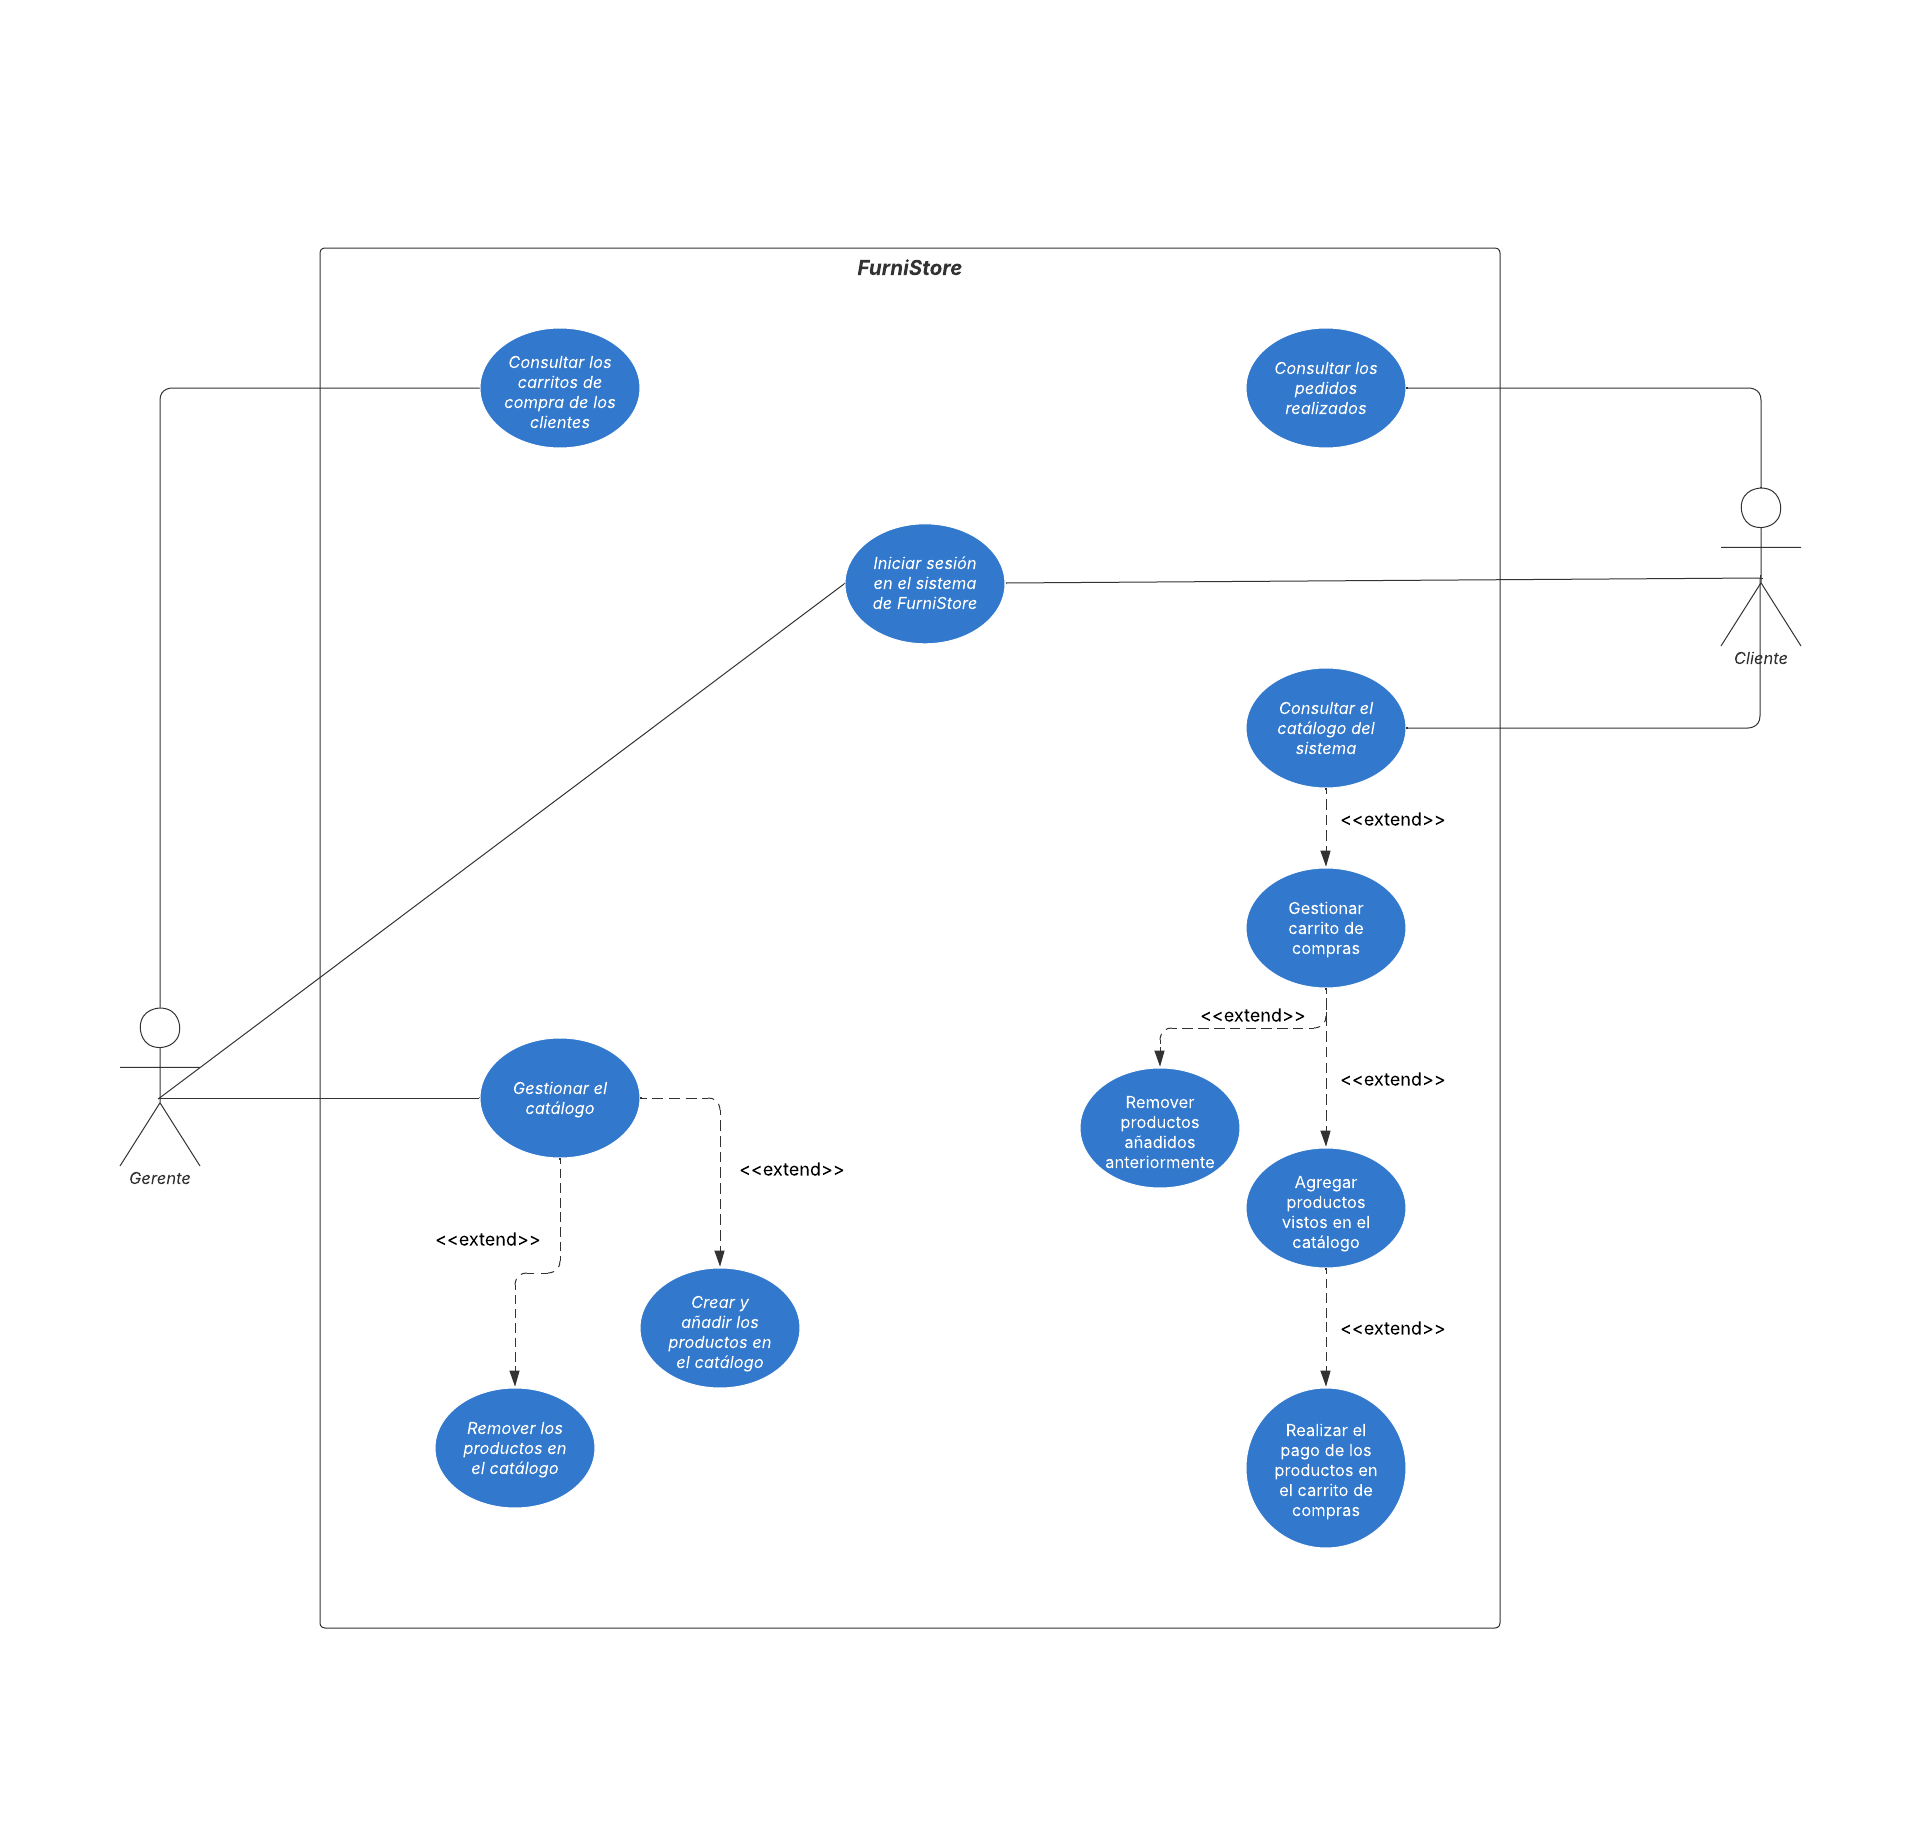
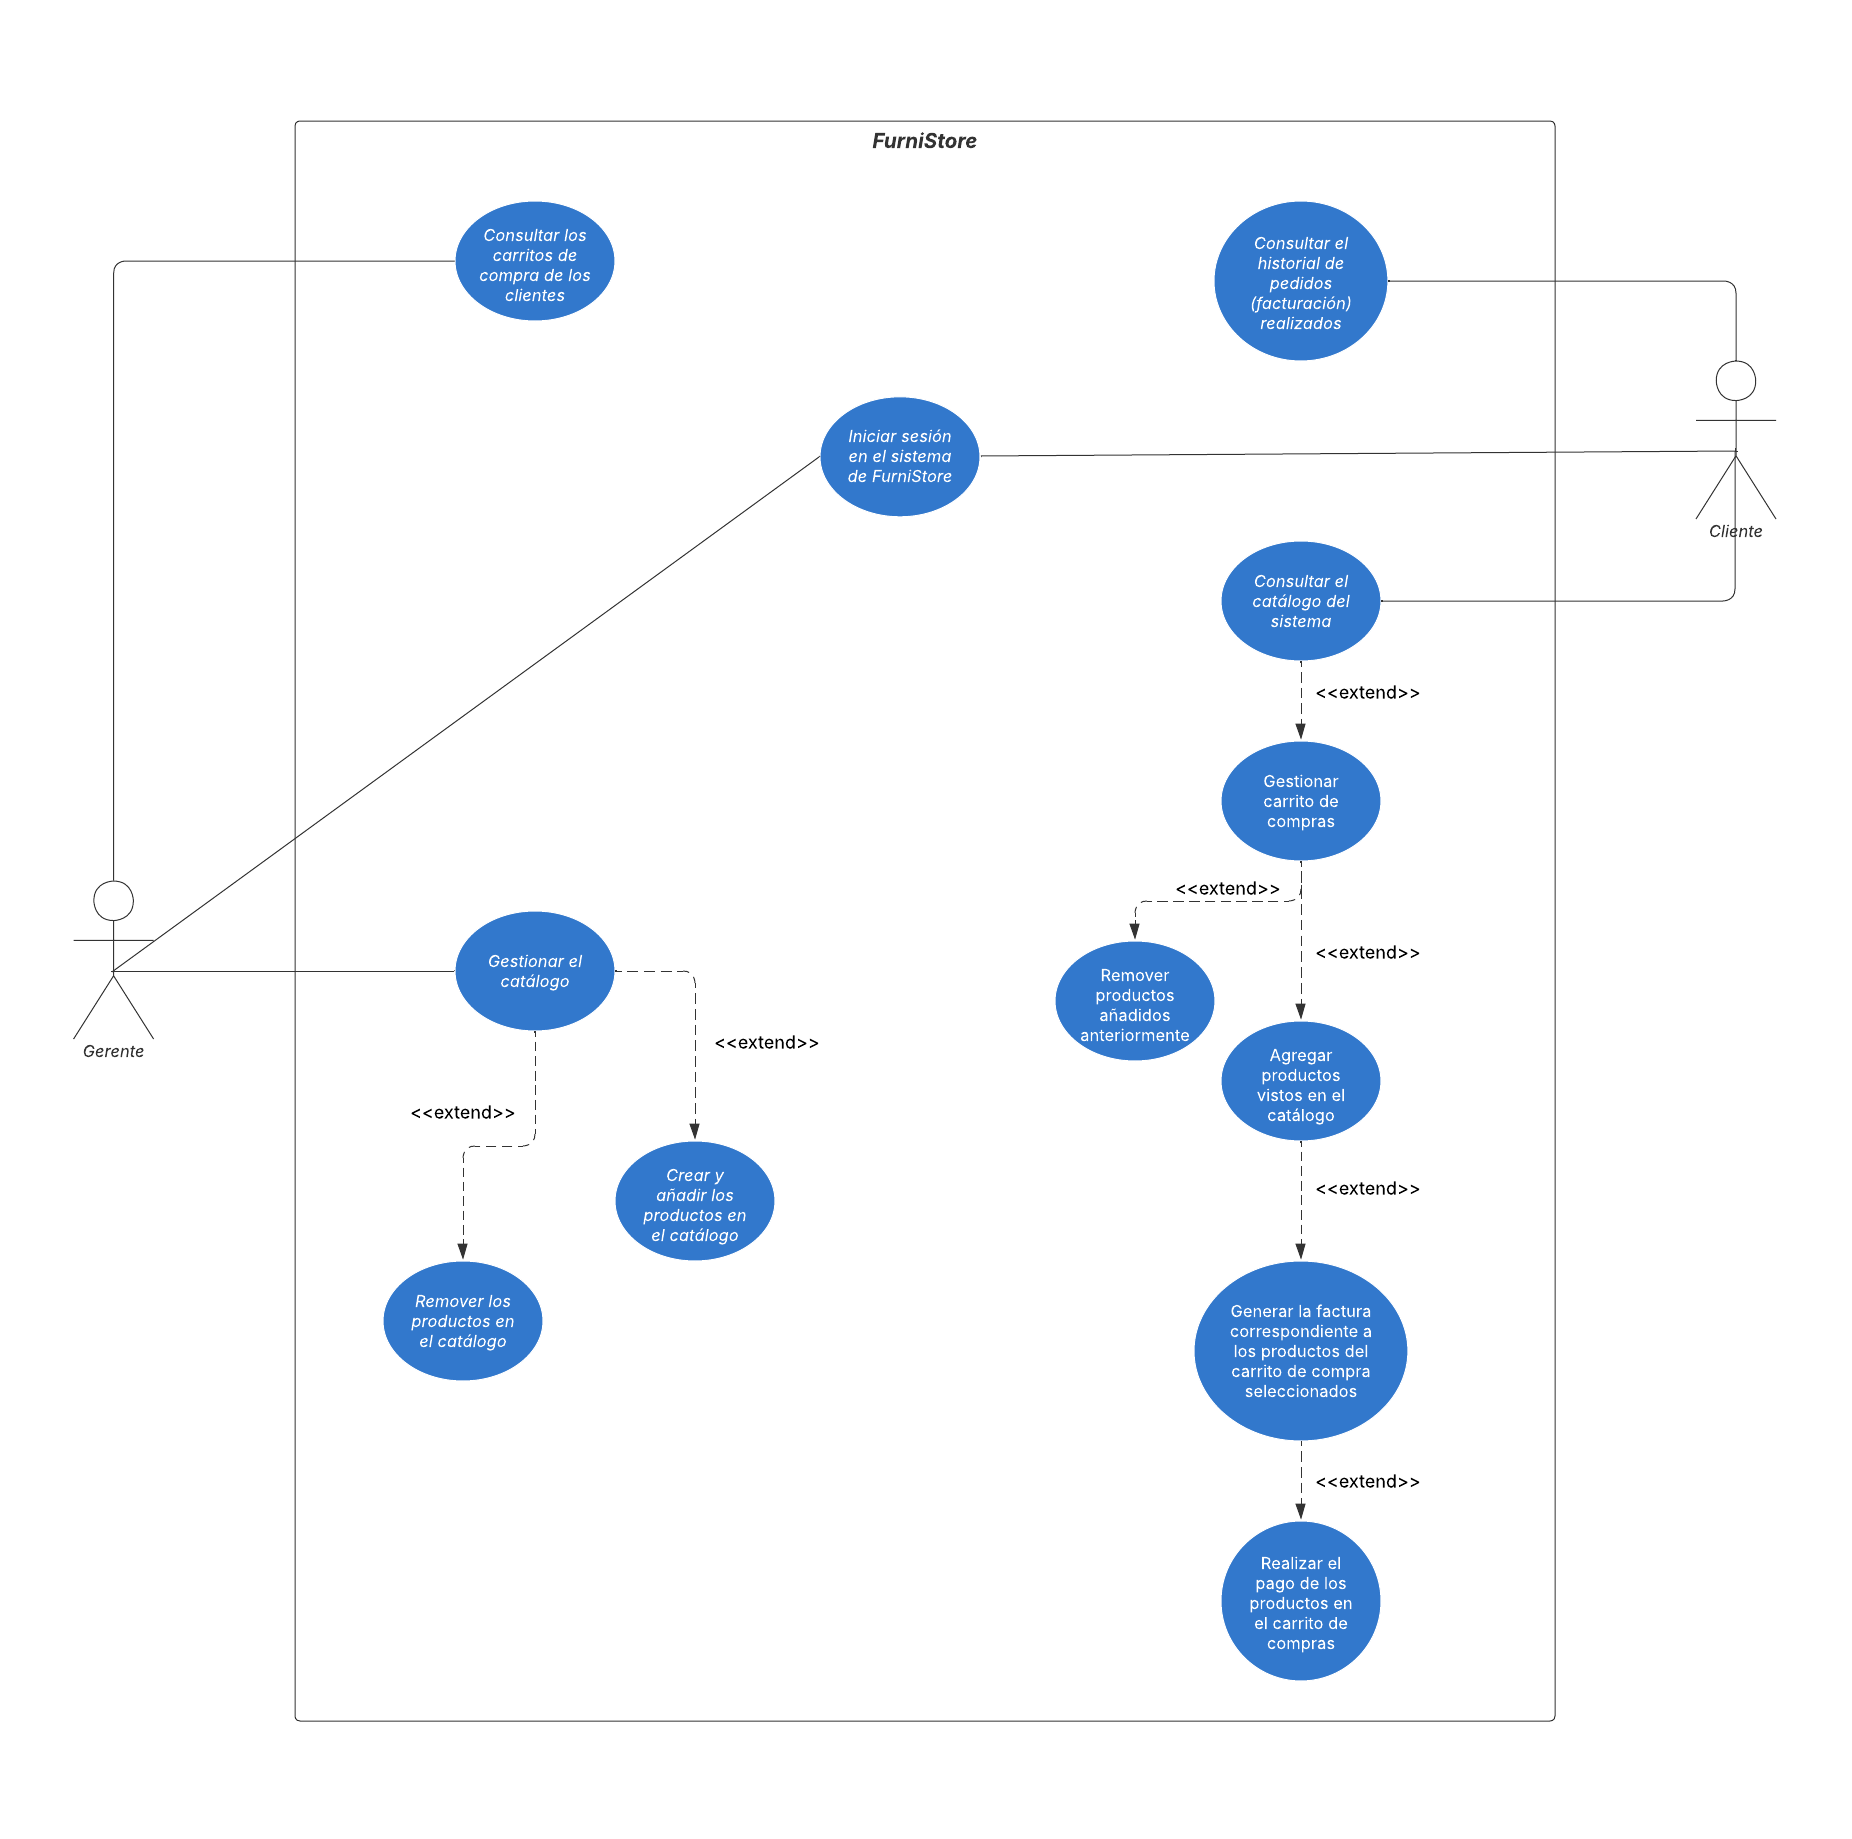
feat: Equipo Rosado Parte 2 - Fueron extendidos los diagramas de clases y casos de uso en base a las nuevas funcionalidades solicitadas en el enunciado de la semana presente. Además, se redactaron las HU correspondientes al caso de estudio y (de forma parcial) el product backlog respectivo. En dado 

diff --git a/README.md b/README.md
@@ -1,8 +1,10 @@
 # Equipo Rosado - Caso de Estudio: FurniStore
 
+---
+
 ##### Autor:
 
-* Julián Santiago Ramírez Urueña
+* ***Julián Santiago Ramírez Urueña***
 
 ---
 
@@ -15,14 +17,14 @@
 * Control de versiones: GiHub
 
 
-##### Evidencia de la compilación del ambiente de trabajo:
+### Evidencia de la compilación del ambiente de trabajo:
 
 * Incluyendo las dependencias de Lombok y SonarQube
 
 ![img.png](docs/images/BUILDSUCCESS.png)
 
 
-#### Estrategia de Versionamiento y Branches
+### Estrategia de Versionamiento y Branches
 
 - `main`: versión estable para producción.
 - `develop`: rama de desarrollo principal.
@@ -30,26 +32,28 @@
 - `bugfix/*`: correcciones de errores.
 - `release/*`: preparación de versiones.  
 
-#### Notación de los commits:
+### Notación de los commits:
 
 ***Cada commit realizado debe seguir el siguiente template: “feat: Equipo Rosado Parte n - Acción realizada”.***
 
 ---
 
 ### Caso de Estudio FurniStore:
-Se estará trabajando en el desarrollo de una solución tecnológica que permita digitalizar la operación de la reconocida tienda de muebles ***FurniStore***. Dicha solución tecnológica sentará las bases de la programación orientada objetos en conjunto a la implementación de buenas prácticas, como lo son los patrones de diseño y/o los principios SOLID. De este modo se garantiza que FurniStore reciba el varias veces mencionado ***recurso tecnológico, robusto, escalable y profesional***.
+Se estará trabajando en el desarrollo de una solución tecnológica que permita digitalizar la operación de la reconocida tienda de muebles ***FurniStore***. Dicha solución tecnológica sentará las bases de la programación orientada a objetos en conjunto a la implementación de buenas prácticas, como lo son los patrones de diseño y/o los principios SOLID. De este modo se garantiza que FurniStore reciba el varias veces mencionado ***recurso tecnológico, robusto, escalable y profesional***.
 
 ### Justificación Patrones de Diseño y principios SOLID:
 
-* Patrones de Diseño
+* ***Patrones de Diseño***
 
 Se identificó el patrón de diseño Abstract Factory Method. De modo que FurniStore maneja un catálogo amplio de mueblería, se optó por generalizar la abstracción de los muebles a través de una clase abstracta llamada ***Furniture***. Esta clase asbtracta contiene varios atributos y métodos que serán compartidos por las subclases (muebles en sí) que la extiendan, de ese modo, se gestionan los diferentes artículos de forma 'independiente'. 
 
-Bajo este mismo orden de ideas, se decidió implementar el patrón Abstract Factory, a través del cual se dividirán los varios tipos de muebles según su estilo visual. Consecuentemente se irán estableciendo los gremios bajo los cuales se irán agrupando cada uno de los muebles; así, se definen entonces las ***familias del catálogo***.
+Bajo este mismo orden de ideas, se decidió entonces implementar el patrón Abstract Factory, a través del cual se dividirán los varios tipos de muebles según su estilo visual. Consecuentemente se irán estableciendo los gremios bajo los cuales se irán agrupando cada uno de los muebles; así, se definen entonces las ***familias del catálogo***.
 
-* SOLID
+Finalmente (por lo pronto) también se añadió el patrón de diseño Decorator, con el cual será posible agregar comportamientos como ***IVA***, ***costos de envío*** y/o ***descuentos*** dinámicamente. 
 
-En cuanto a los principios SOLID, tenemos que el SRP es cumplido pues, Furniture (modelo base con atributos y getters), Catalog(gestiona la colección de muebles disponibles), ShoppingCart(gestiona los ítems a agregar o remover del carrito), Billing (toma las riendas de la facturación), FurnitureFactory (fábrica de los objetos agremiados) y User (según cada tipo de usuario) se encargan de una y solamente una única responsabilidad.
+* ***SOLID***
+
+En cuanto a los principios SOLID, tenemos que el SRP es cumplido pues, Furniture (modelo base con atributos y getters), Catalog(gestiona la colección de muebles disponibles), ShoppingCart(gestiona los ítems a agregar o remover del carrito), BillingStructure (que toma las riendas de la facturación), BillingDecorator(al añadir los comportamientos dinámicos de la facturación), FurnitureFactory (fábrica de los objetos agremiados) y User (según cada tipo de usuario) se encargan de una y solamente una única responsabilidad.
 También, OCP se hace presente pues, el sistema no requiere de modificaciones, sin embargo, cuenta con extensibilidad. Esto porque se pueden agregar nuevas familias de objetos, nuevos objetos como tal y también, nuevos tipos de usuario.
 
 Por parte de LSP las subclases de Furniture (Chair, Table, Sofa) pueden reemplazar a Furniture sin problemas y cualquier familia concreta de FurnitureFactory sustituye a la interfaz sin romper el sistema. ISP se cumple a través de FurnitureFactory pues se enfoca únicamente en la creación de artículos haciendo que cada implementación cree únicamente aquello que le corresponde.
@@ -78,3 +82,108 @@ URL al DC - https://lucid.app/lucidchart/1bf0b5d2-d569-4900-88bb-5eaa509e0114/ed
 
 URL al DCU - https://lucid.app/lucidchart/0f1d32bc-fd34-45b3-980e-c12877d7f0d0/edit?viewport_loc=350%2C504%2C2564%2C2119%2C.Q4MUjXso07N&invitationId=inv_d90147c2-6560-4400-9224-590d79dcfb7f
 
+---
+
+### FURNISTORE - PRODUCT BACKLOG
+
+* ***HU1 - INICIO DE SESIÓN***
+
+    _'Como Usuario Gerente o Usuario Cliente, quiero realizar el inicio de sesión en el sistema de FurniStore, para poder acceder a las funcionalidades asignadas a mi rol.'_
+
+    CRITERIOS DE ACEPTACIÓN HU1:
+
+    - El sistema valida las credenciales que se ingresaron.
+    - Si las credenciales son correctas, se dirige al panel correspondiente.
+    - Si las credenciales no son válidas, se mostrará un mensaje de error.
+  
+* ***HU2 - CONSULTAR EL CATÁLOGO***
+
+    _'Como Cliente, quiero consultar el catálogo de muebles disponibles, para poder tener claridad sobre los artículos y las cantidades que podría comprar.'_
+
+    CRITERIOS DE ACEPTACIÓN HU2:
+
+    - Se listan los productos con id, nombre, material, precio y estilo visual.
+    - Los productos que generen interés pueden ser agregados al carrito de compras.
+
+* ***HU3 - GESTIONAR EL CARRITO DE COMPRAS***
+
+    _'Como Cliente, quiero agreagar o eliminar los productos que me generen y/o generaron interés de mi carrito de compras, para poder preparar mi pedido antes de realizar el pago.'_
+
+    CRITERIOS DE ACEPTACIÓN HU3:
+    
+    - El cliente podrá agregar los productos del catálogo que le llamaron la atención.
+    - El cliente puede eliminar los artículos previamente añadidos al carrito si así lo desea.
+    - El sistema actualiza el carrito.
+
+* ***HU4 - FACTURACIÓN***
+
+    _'Como Cliente, quiero generar una factura con el detalle de los productos seleccionados, para poder conocer el costo final si bien se incluye el IVA, o el costo de envío o se aplica algún descuento'._
+
+    CRITERIOS DE ACEPTACIÓN HU4:
+
+    - La factura debe incluir los productos seleccionados y en tal caso, el IVA, los costos de envío y/o los descuentos aplicables.
+    - El sistema la genera automáticamente después de confirmar la compra.
+  
+* ***HU5 - PAGOS***
+
+    _'Como Cliente, quiero realizar el pago de los productos que seleccioné, para poder finalizar (como se debe) el proceso de mi pedido.'_
+
+    CRITERIOS DE ACEPTACIÓN HU5:
+
+    - El pago debe ser con uno de los métodos de pago válidos y ya especificados en el sistema.
+    - Se muestra un mensaje que confirmará el ticket del pedido.
+
+* ***HU6 - HISTORIAL DE PEDIDOS***
+
+    _'Como Cliente, quiero consultar el historial de pedidos que realicé, para poder tener un 'control' y un seguimiento sólido de mis compras anteriores.'_
+
+    CRITERIOS DE ACEPTACIÓN HU6:
+
+    - Se debe mostrar la lista de TODOS los pedidos que realizó el cliente.
+
+---
+
+### SPRINT PLANNING
+
+* HU1 - Inicio de Sesión:
+
+    - `Crear la entidad Usuario y el proceso básico de autenticación.`
+    - `Rama: feature/login`
+    - `Encargado: Julián Ramírez1`
+    - `Estimación: 1 punto`
+
+* HU2 - Consultar el Catálogo:
+
+    - `Implementar las clases Furniture, FurnitureFactory y Catalog.`
+    - `Rama: feature/catalog`
+    - `Encargado: Julián Ramírez2`
+    - `Estimación: 1 punto`
+
+* HU3 - Gestionar el Carrito de Compras:
+
+    - `Construir la clase del carrito de compras.`
+    - `Rama: feature/shoppingCart`
+    - `Encargado: Julián Ramírez3`
+    - `Estimación: 1 punto`
+
+* HU4 - Facturación:
+
+    - `Desarrollar las clases BillingStructure, Bill, BillDecorator y sus derivados.`
+    - `Rama: feature/billing`
+    - `Encargado: Julián Ramírez1`
+    - `Estimación: 1 punto`
+
+* HU5 - Pagos:
+
+    - `Realizar el ENUM para los métodos de pago.`
+    - `Rama: feature/payment`
+    - `Encargado: Julián Ramírez2`
+    - `Estimación: 1 punto`
+
+* HU6 - Historial de Pedidos:
+
+    - ``
+    - `Rama: feature/billingHistory`
+    - `Encargado: Julián Ramírez3`
+    - `Estimación: 1 punto`
+---
